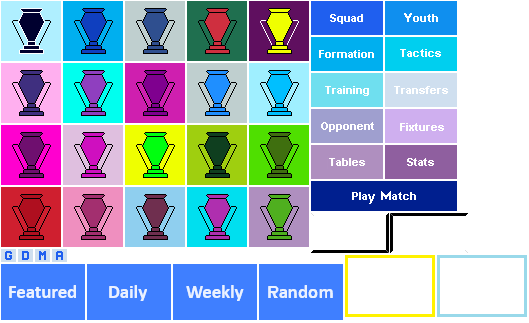
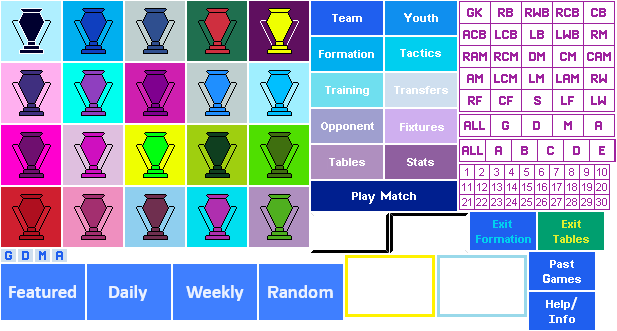
Add files via upload

diff --git a/football/data.js b/football/data.js
@@ -155,16 +155,17 @@ var FOOTBALLER = { SERVICE: { YOUTH: 0, EXPERIENCED: 1, SEASONED: 2, VETERAN: 3,
 var PLAYERS = { OUTFIELD: 10, TOTAL: 11 };  //TODO: maybe TEMP
 var PlayerTypes = [ "Normal", "Brittle", "Inspirational", "Sparker", "Specalist", "Temperamental", "Undisciplined", "Versatile", "Volatile" ];
 var Designations = [ "League", "Laggard", "Overseas", "Domestic", "Peripheral", "Youth", "Semi-Pro", "Prodigy", "Chronic" ];
-var TRANSFERS = { POOL: { TOTAL: 904, LEAGUE: 320, FRINGE: 600, OVERSEAS: 100, DOMESTIC: 100, PERIPHERAL: 100, YOUTH: 100, SEMiPRO: 100, PRODIGY: 100 },
+var TRANSFERS = { POOL: { TOTAL: 1024, LEAGUE: 304, FRINGE: 720, OVERSEAS: 300, DOMESTIC: 200, PERIPHERAL: 100, YOUTH: 60, SEMiPRO: 30, PRODIGY: 30 },
 		  ALL: 0, G: 1, D: 2, M: 3, A: 4, TARGETS: { ALL: 900, G: 40, D: 80, M: 90, A: 60 } };
 var TypeSymbols = [ "", "…", "‡", "º", "*", "†", "^", "±" ];  //REDUNDANT
 var SLOT = { GK: 3, D: 8, M: 8, A: 6, RB: 4, RWB: 5, CB: 9, LB: 10, LWB: 11, RM: 13, DM: 14, CM: 16, AM: 17, LM: 19, RW: 20, SF: 21, S: 23, BF: 24, LW: 25 };
 var FORM = { TERRIBLE: 0, POOR: 1, NORMAL: 2, GOOD: 3, EXCELLENT: 4 };  //TODO: might use SOLID rather than NORMAL
+/*
 var LeaguePlayers = [ ArsenalPlayers, BournemouthPlayers, BrightonPlayers, BurnleyPlayers, ChelseaPlayers, CrystalPalacePlayers,
 				EvertonPlayers, HuddersfieldPlayers, LeicesterPlayers, LiverpoolPlayers, ManchesterCityPlayers,
 				ManchesterUtdPlayers, NewcastlePlayers, SouthamptonPlayers, StokePlayers, SwanseaPlayers,
 				TottenhamPlayers, WatfordPlayers, WBAPlayers, WestHamPlayers ];
-
+*/
 //-- MATCH --
 
 var MATCH = { PLAYERS: 11, SUBS: 7, MINUTES: 90, SIM: { CYCLE: { UNIT: 0, ZONAL: 1, MATChUP: 2 }, RESULT: { TURNOVER: 0, MISS: 1, SAVE: 2, GOAL: 3 } } };
@@ -228,7 +229,7 @@ var ROTATINgBALlIMAGE = { L: 2, T: 264, W: 80, H: 80 };
 var ACRONYmIMAGEs = { L: 1, T: 1, W: 232, H: 31, O: 2, R: 3, C: 9, PATCH: { W: 24, H: 9 } };
 var TYPeSYMBOlIMAGEs = { L: 1, T: 156, W: 110, H: 13, O: 2, C: 8, R: 1, PATCH: { W: 12, H: 13 } };
 var DESIGNATIOnSYMBOlIMAGEs = { L: 113, T: 156, W: 110, H: 13, O: 2, C: 8, R: 1, PATCH: { W: 12, H: 13 } };
-var ARROwIMAGEs = { L: 265, T: 87, W: 12, H: 10, O: 2, C: 2, R: 1, PATCH: { W: 5, H: 10 } };
+var ARROwIMAGEs = { L: 265, T: 87, W: 82, H: 10, O: 2, C: 10, R: 1, PATCH: { W: 5, H: 10 } };
 
 var HAIrIMAGEs = { L: 1, T: 56, W: 294, H: 21, O: 2, R: 1, C: 8, PATCH: { W: 35, H: 21 } };
 var FOOTBALLErFACeIMAGEs = { L: 1, T: 79, W: 262, H: 29, O: 2, R: 1, C: 8, PATCH: { W: 31, H: 29 } };

diff --git a/football/components.js b/football/components.js
@@ -105,10 +105,12 @@ var HomeIsometricPlayers, AwayIsometricPlayers;
 
 var LeagueView, LeagueInfoView, LeagueConsoleView;
 var TeamView, TeamInfoView, TeamConsoleView;
-var SquadView, YouthView;
+var SquadView, SquadConsoleView;
+var YouthView;
 var FormationSubView, FormationInfoView, FormationConsoleView;
 var FixturesSubView, FixturesInfoView;
-var OpponentSubView, OpponentInfoView, TableSubView, TransferSubView;
+var OpponentSubView, OpponentInfoView, TransferSubView;
+var TableSubView, TableConsoleView;
 var TacticsSubView, TrainingSubView, StatsSubView;
 var MatchSideView, HighlightsView, HighlightsInfoView, HighlightsConsoleView;
 
@@ -537,7 +539,11 @@ FootballComponents.prototype = {
 		TeamInfoView = new FootballTeamInfoView();
 		if (Game.CheckMobile())
 			TeamConsoleView = new FootballTeamConsoleView();
+
 		SquadView = new FootballSquadView();
+		if (Game.CheckMobile())
+			SquadConsoleView = new FootballSquadConsoleView();
+
 		YouthView = new YouthTeamView();
 
 		FormationSubView = new FootballFormationSubView();
@@ -552,7 +558,10 @@ FootballComponents.prototype = {
 			OpponentInfoView = new FootballOpponentInfoView();
 	
 		MatchSideView = new FootballMatchSideView();
+
 		TableSubView = new FootballTableSubView();
+		TableConsoleView = new FootballTableConsoleView();
+
 		TransferSubView = new FootballTransferSubView();
 		TransferConsoleView = new FootballTransferConsoleView();
 
@@ -566,19 +575,16 @@ FootballComponents.prototype = {
 
 		this.SetLeagueViews();
 		this.SetTeamViews();
+		this.SetSquadViews();
 		this.SetFormationViews();
 		this.SetTransferViews();
 		this.SetOpponentViews();
 		this.SetFixturesViews();
 		this.SetHighlightsViews();
+		this.SetTableViews();
 
-		SquadView.SetLinks(this.GraphicsTool, this.TextWriter, this.Randomizer);
-		SquadView.Set(this.Interface.PrimeScape, VIEW.SQUAD, TeamView);
 		YouthView.Set(this.Screen, this.GraphicsTool, this.TextWriter);
-
 		MatchSideView.Set(this.Screen, this.GraphicsTool, this.Randomizer);
-		TableSubView.Set(this.Interface.PrimeScape, VIEW.TABLES, TeamView);
-		TableSubView.SetLinks(null, this.TextWriter);
 
 		TacticsSubView.Set(this.Interface.PrimeScape, VIEW.TACTICS, TeamView);
 		TrainingSubView.Set(this.Interface.PrimeScape, VIEW.TRAINING, TeamView);

diff --git a/football/table.js b/football/table.js
@@ -2,41 +2,46 @@
 //-----------------------------------------------------
 //----------- PREMIER LEAGUE TABLE --------------------
 var PremierLeagueTable = function() {
-   var Positions;
+	var Positions;
 };
 PremierLeagueTable.prototype = {
-   Set() {
-      this.Positions = new Array(LEAGUE.TEAMS);		//NOTE: new array to sort by points
-      this.SetTeams();
-   },
-   SetTeams() {
-      var i;
+	Set() {
+		this.Positions = new Array(LEAGUE.TEAMS);		//NOTE: new array to sort by points
+		this.SetTeams();
+	},
+	SetTeams() {
+		var i;
 
-      for (i=0;i<LEAGUE.TEAMS;++i)
-	 this.Positions[i] = Teams[i];
-   },
-   Sort() {
+		for (i=0;i<LEAGUE.TEAMS;++i)
+			this.Positions[i] = Teams[i];
+	},
+	FirstSort() {
 
-      Teams.forEach(function(team){team.CalculatePoints();});
-      this.Positions.sort(function(a, b) {
-	 if (b.Points>a.Points)
-	    return (1);
-	 else if (b.Points<a.Points)
-	    return (-1);
-	 else {
-	    if (b.GoalDifference>a.GoalDifference)
-	       return (1);
-	    else if (b.GoalDifference<a.GoalDifference)
-	       return (-1);
-	    else {
-	       if (b.GoalsFor>a.GoalsFor)
-		  return (1);
-	       else if (b.GoalsFor<a.GoalsFor)
-		  return (-1);
-	       else
-		  return (0);
-	    }
-	 }
-      });
-   }
+		this.Positions.sort(function(a,b) {return (a.Position-b.Position);});
+	},
+	Sort() {
+
+		Teams.forEach(function(team){team.CalculatePoints();});
+		this.Positions.sort(function(a, b) {
+			if (b.Points>a.Points)
+				return (1);
+			else if (b.Points<a.Points)
+				return (-1);
+			else {
+				if (b.GoalDifference>a.GoalDifference)
+					return (1);
+				else if (b.GoalDifference<a.GoalDifference)
+					return (-1);
+				else {
+					if (b.GoalsFor>a.GoalsFor)
+						return (1);
+					 else if (b.GoalsFor<a.GoalsFor)
+						return (-1);
+					 else
+						return (0);
+				}
+			}
+		}
+		);
+	}
 };

diff --git a/football/team.js b/football/team.js
@@ -63,11 +63,20 @@ FootballTeam.prototype = {
 	},
 	GenerateFormations() {
 		var i;
+		var nPlyrs;
 
 		//Sort list from best player downwards, the best 10 to be selected first, others subbing in if they upgrade a position
+		nPlyrs = 0;
 		for (i=0;i<SQUAD.SIZE;++i)
 			if (this.Squad.Players[i].Position!=POSITION.GK)
-				this.SortedSquadList[i] = this.Squad.Players[i];
+				if (!this.Squad.Players[i].CheckInjured()) {
+					if (nPlyrs<this.SortedSquadList.length)
+						this.SortedSquadList[nPlyrs] = this.Squad.Players[i];
+					else
+						this.SortedSquadList.push(this.Squad.Players[i]);
+					++nPlyrs;
+				}
+		this.SortedSquadList.length = nPlyrs;
 		this.SortedSquadList.sort(function(ftblr1, ftblr2) {return (ftblr1.Quality-ftblr2.Quality);});
 
 		for (i=0;i<FORMATION.TYPES;++i)
@@ -149,9 +158,9 @@ FootballTeam.prototype = {
 		var i;
 		var rtng;
 
-		for (i=0;i<SQUAD.SIZE;++i) {
-			if (!this.SortedSquadList[i])
-				continue;
+		for (i=0;i<this.SortedSquadList.length;++i) {
+//			if (!this.SortedSquadList[i])			//looks REDUNDANT
+//				continue;
 			if ( this.SortedSquadList[i].Selected || this.SortedSquadList[i].Position==POSITION.GK )
 				continue;
 			rtng = this.SortedSquadList[i].GetDisplacement(Formations[iFrmtn][iPlyr]) + this.SortedSquadList[i].Quality;

diff --git a/football/Mobile.htm b/football/Mobile.htm
@@ -197,6 +197,7 @@
 	<script src="views\team\info.js"></script>
 	<script src="views\team\console.js"></script>
 	<script src="views\squad.js"></script>
+	<script src="views\squad\console.js"></script>
 	<script src="views\youthteam.js"></script>
 
 	<script src="views\formation.js"></script>
@@ -205,10 +206,14 @@
 	<script src="views\formation\bench.js"></script>
 	<script src="views\formation\subs.js"></script>
 
-	<script src="views\training.js"></script>
+	<script src="views\table.js"></script>
+	<script src="views\table\info.js"></script>
+	<script src="views\table\console.js"></script>
 
 	<script src="views\tactics.js"></script>
 	<script src="views\tactics\console.js"></script>
+
+	<script src="views\training.js"></script>
 
 	<script src="views\transfer.js"></script>
 	<script src="views\transfer\set.js"></script>
@@ -229,7 +234,7 @@
 	<script src="views\fixtures\info.js"></script>
 
 	<script src="views\injury.js"></script>
-	<script src="views\table.js"></script>
+
 	<script src="views\stats.js"></script>
 	<script src="views\matchsideview.js"></script>
 

diff --git a/football/Tablet.htm b/football/Tablet.htm
@@ -62,6 +62,7 @@
 	<script src="..\library\utils\IntersectUtils.js"></script>
 	<script src="..\library\utils\PerspectiveUtils.js"></script>
 	<script src="..\library\utils\StringUtils.js"></script>
+	<script src="..\library\utils\MoneyUtils.js"></script>
 
 	<!-- Tools -->
 	<script src="..\library\GenieRandom.js"></script>
@@ -240,6 +241,10 @@
 
 	<script src="views\training.js"></script>
 
+	<script src="views\table.js"></script>
+	<script src="views\table\info.js"></script>
+	<script src="views\table\console.js"></script>
+
 	<script src="views\tactics.js"></script>
 	<script src="views\tactics\console.js"></script>
 
@@ -260,7 +265,7 @@
 	<script src="views\fixtures\info.js"></script>
 
 	<script src="views\injury.js"></script>
-	<script src="views\table.js"></script>
+
 	<script src="views\stats.js"></script>
 	<script src="views\matchsideview.js"></script>
 

diff --git a/football/Football.htm b/football/Football.htm
@@ -239,10 +239,14 @@
 	<script src="views\formation\info.js"></script>
 	<script src="views\formation\console.js"></script>
 
-	<script src="views\training.js"></script>
+	<script src="views\table.js"></script>
+	<script src="views\table\info.js"></script>
+	<script src="views\table\console.js"></script>
 
 	<script src="views\tactics.js"></script>
 	<script src="views\tactics\console.js"></script>
+
+	<script src="views\training.js"></script>
 
 	<script src="views\transfer.js"></script>
 	<script src="views\transfer\set.js"></script>
@@ -261,7 +265,6 @@
 	<script src="views\fixtures\info.js"></script>
 
 	<script src="views\injury.js"></script>
-	<script src="views\table.js"></script>
 	<script src="views\stats.js"></script>
 	<script src="views\player.js"></script>
 	<script src="views\matchsideview.js"></script>

diff --git a/football/squad.js b/football/squad.js
@@ -21,6 +21,10 @@ FootballSquad.prototype = {
 		this.Attackers = new Array();
 		this.PositionGroups = [ this.Goalkeepers, this.Defenders, this.Midfielders, this.Attackers ];
 	},
+	Reset() {  //UNLOGGED
+
+		this.ClearInjuries();  //TODO: necessary? only needed at end of season, not when starting a new game
+	},
 	Generate() {
 
 		this.Players = ArrayUtils.Create(SQUAD.SIZE, FootballPlayer);
@@ -233,5 +237,13 @@ FootballSquad.prototype = {
 			qlty += this.Players[i].Quality;
 
 		return (qlty/this.Players.length);
+	},
+	UpdateInjuries() {
+
+		this.Players.forEach(function(plyr) {plyr.UpdateInjured();});
+	},
+	ClearInjuries() {
+
+		this.Players.forEach(function(plyr) {plyr.ClearInjury();});
 	}
 };

diff --git a/football/player.js b/football/player.js
@@ -426,6 +426,11 @@ FootballPlayer.prototype = {
 
 		return (BitUtils.CheckBit(this.Status, FOOTBALLER.BIT.STRICKEN));
 	},
+	ClearInjury() {
+
+		if (this.CheckInjured())
+			this.Status -= BitUtils.AddBit(this.Status, FOOTBALLER.BIT.INJURY);
+	},
 	Update() {  //TODO: may set a bit indicating if played in League and/or Cup match that week, or could pass in that info plus minutes played
 
 		//UNLOGGED
@@ -459,6 +464,12 @@ FootballPlayer.prototype = {
 				this.UpdateChronic();
 				break;
 		}
+	},
+	UpdateInjured() {
+
+		this.ClearInjury();
+		if (this.Randomizer.CheckUnderOdds(3,SQUAD.SIZE))
+			this.SetInjured();
 	},
 	UpdateAge() {
 	},
